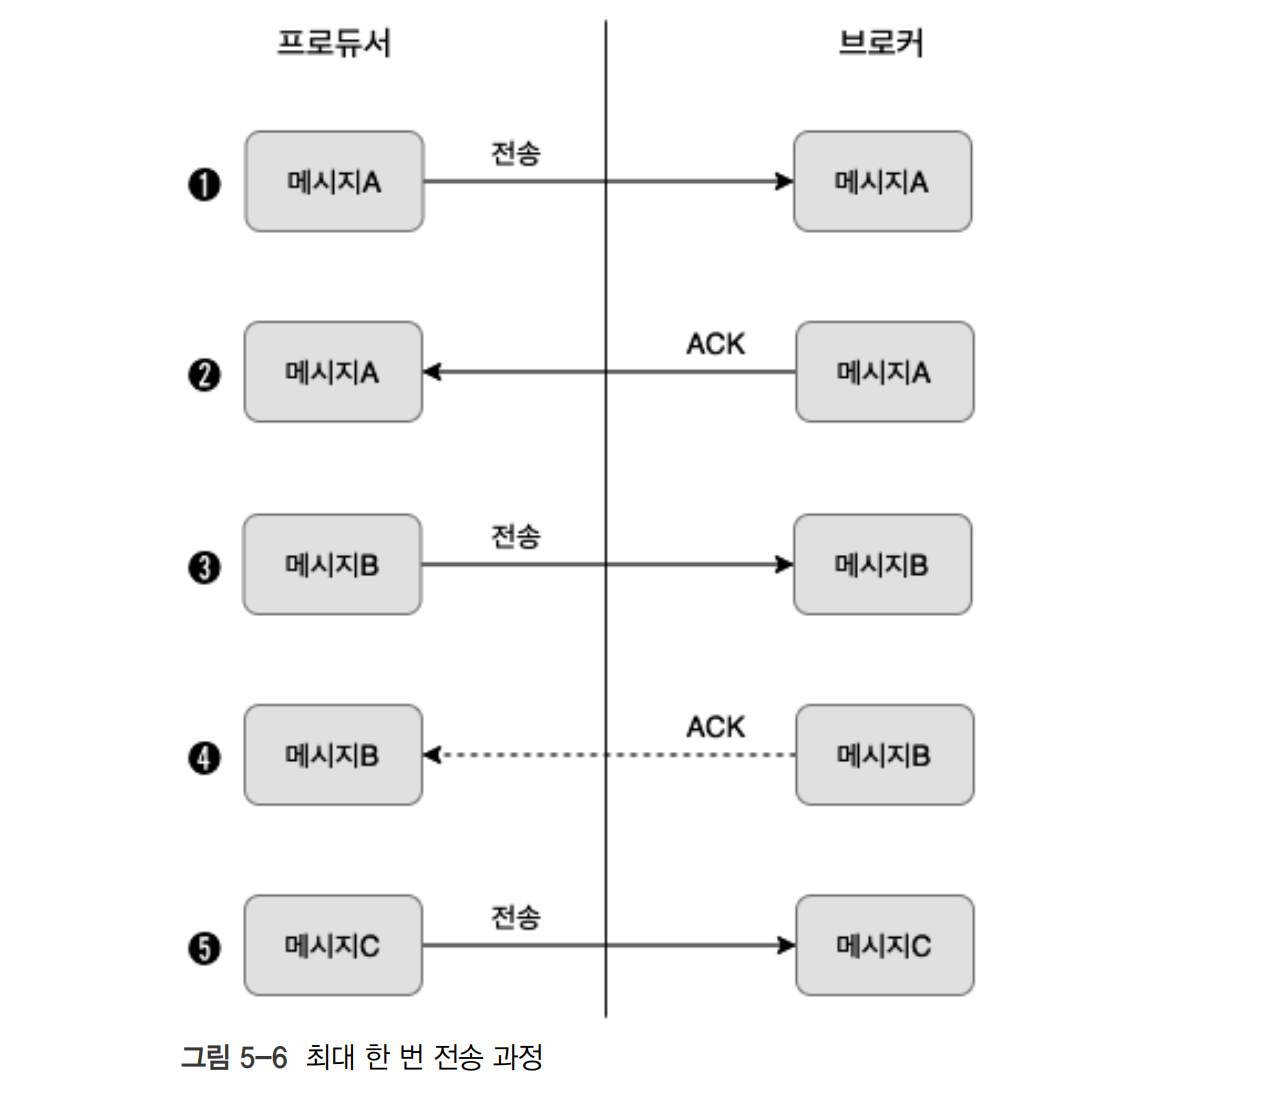
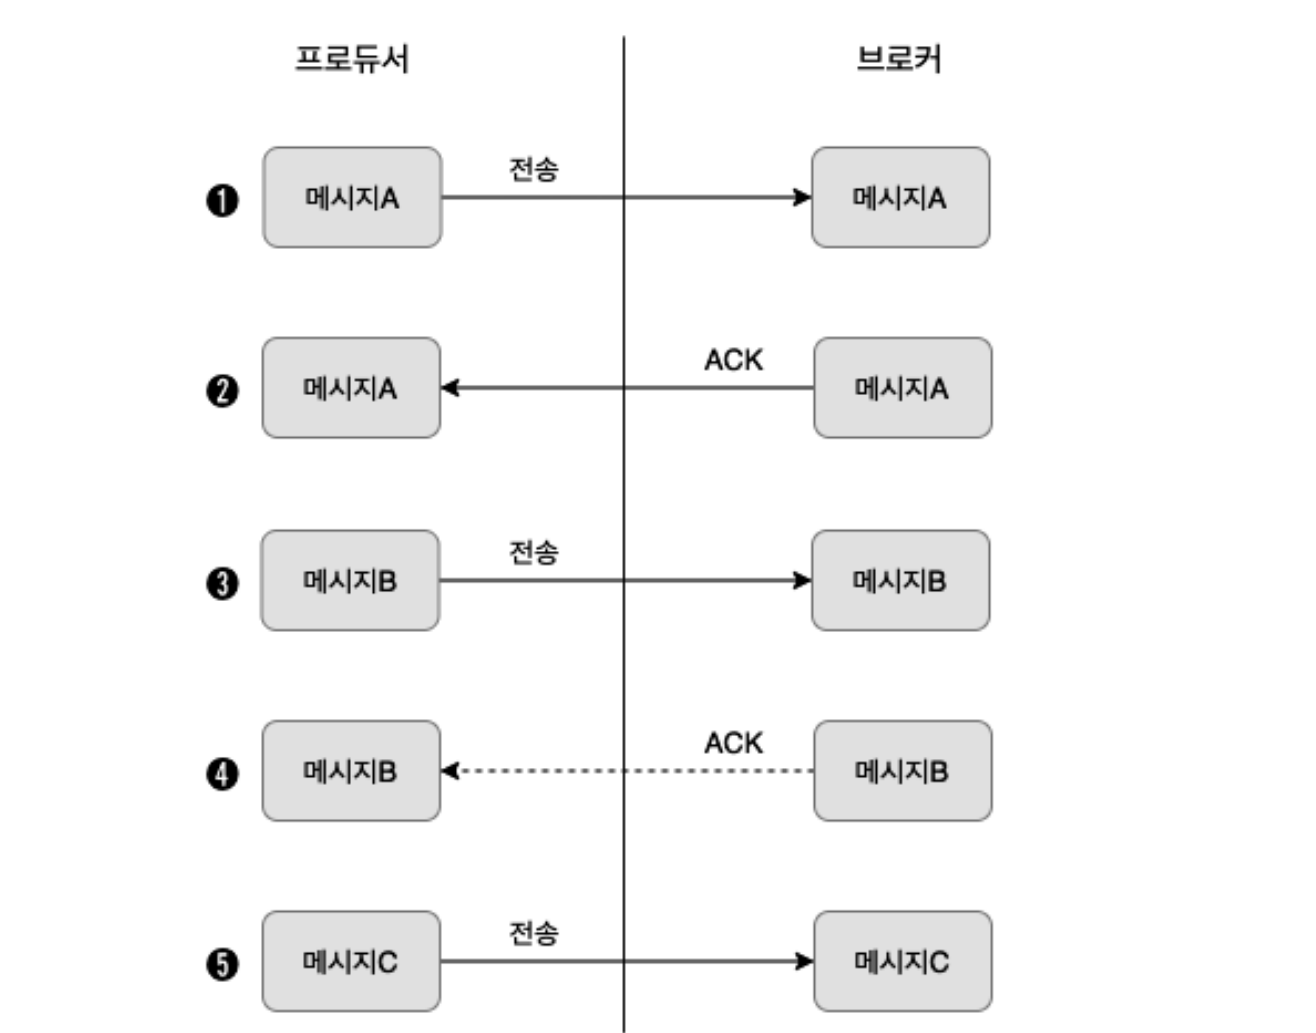
중복 없는 전송(멱등성 전송)

Changed region(s): [[0.1235, 0.0, 0.772, 1.0]]

diff --git a/hihisososo/chapter5/README.md b/hihisososo/chapter5/README.md
@@ -1,98 +1,52 @@
-## 4장(카프카의 내부 동작 원리와 구현)
+## 5장(프로듀서의 내부 동작 원리와 구현)
 
-* 리플리케이션 동작 개요
-  * 애플리케이션의 고가용성을 위해 리플리케이션(복제본 생성)은 필수적인 요소다
-  * replication factor (복제본 생성 수) 옵션을 통해서 각 토픽의 리플리케이션 갯수를 지정할 수 있다.
-  * kafka-topics.sh 의 --describe 옵션을 통해서 아래와 같이
-  파티션의 개수, 리플리케이션 팩터 수, 리플리케이션이 존재하는 브로커등의 상세 정보를 확인할 수 있다
+* 파티셔너
+  * 한개의 토픽은 성능을 위해 한개 이상의 파티션으로 분할되어 저장된다
+  * 메시지의 키 값을 기준으로 해싱되어 어느 파티션으로 보낼 지 결정되기 때문에
+  나중에 파티션을 추가하면 같은 키 값이라도 다른 파티션에 저장될 수 있다
+
+* 라운드 로빈 전략
+  * 메시지의 키 값은 필수가 아니므로, 키 값이 없을 경우 라운드 로빈 방식으로 파티션에 분할한다
+  * 라운드 로빈 방식의 문제점은, 프로듀서 내부적으로 카프카에 보낼 때 메시지를 파티션 단위로 배치 처리 하는데
+  파티션과 배치 사이즈가 클 경우 충분한 메시지에도 배치 사이즈를 채우지 못해서 전송을 못하는 경우가 생김
+  * 해당 부분을 보완하기 위해 스티키 파티셔닝 전략이 개발되었다
   
-    ![describe](./picture/peter-test01-describe.PNG)
-  * kafka-dump-log.sh --print-data-log --files ${세그먼트 파일} 을 통해 세그먼트의 시작 오프셋, 메시지 등의 상세 정보를
-  아래와 같이 확인할 수 있다.
+* 스티키 파티셔닝 전략
+  * 라운드 로빈의 단점을 보완하기 위해, 프로듀서에서 특정 파티션의 배치를 먼저 채워서 전송하는 방식
   
-    ![dump](./picture/peter-dump.PNG)
-  * N 개의 리플리케이션이 있을 경우, N-1 까지의 브로커 장애시에도 메시지 손실없이 안정적으로 메시지를 주고받을 수 있다
+  ![producer](./picture/producer.PNG)
+* 프로듀서 옵션들
+  * buffer.memory : 카프카로 메시지들을 전송하기 위해 담아두는 버퍼 메모리
+  * batch.size : 배치 전송을 위해 메시지들을 묶는 단위, 기본 16KB
+  * linger.ms : 배치 전송을 위해 버퍼 메모리에서 대기하는 시간, 기본 0ms
 
-* 리더와 팔로워
-  * 각 리플리케이션은 리더와 팔로워로 구분된다. 리더는 한개만 존재하며 프로듀서/컨슈머는 리더에만 데이터를 전송/읽는다
-  * 팔로워들은 리더에 문제가 생겼을 경우 리더가 될 준비를 하며, 지속적으로 리더의 변경사항을 반영한다
+* 프로듀서 메시지 전송 방식 종류
+  * 적어도 한 번 전송
+  * 최대 한 번 전송
+  * 정확히 한 번 전송
 
-* 복제 유지와 커밋
-  * 리더와 팔로워는 ISR(InSyncReplica) 라는 논리적 그룹으로 묶여 있으며 해당 그룹에 속하는 팔로워만이
-  리더가 될 자격을 부여한다
-  * 리더는 팔로워들이 특정 주기마다 메시지 요청을 하는지 감시하며, 요청이 오지 않는 팔로워는 ISR 그룹에서 제외시킨다
-  (ISR 목록은 토픽 상세보기를 통해 확인가능)
-  * 모든 팔로워가 메시지를 복제하면, 리더는 내부적으로 하이워터마크라는 커밋 오프셋을 저장하며, 하이워터마크된 메시지만
-  컨슈머에서 읽어갈 수 있다
-  * 모든 팔로워가 메시지를 복제하지 않은 상태에서 컨슈머에게 제공하면 아래와 같이 새로운 리더가 선출되었을 경우 데이터
-  싱크가 맞지 않는 현상이 발생하게 된다
-    ![new_leader_consumer](./picture/new_leader_consumer.PNG)
-  * 성능 향상을 위해, 리더는 팔로워가 데이터를 잘 저장했는지 여부를 통신 응답으로 확인(ACK) 하지 않으며
-  그대신 팔로워가 데이터 요청시 응답에 추가적으로 새로운 메시지가 있다고 알리게 된다
-  * /data/kafka-logs/replication-offset-checkpoint 파일에 마지막 오프셋 위치가 아래와 같이 각 브로커에서 저장되게 된다
-    > peter-test01 0 6
+* 적어도 한 번 전송
+  * 최소 한번 이상의 전송이 보장되는 방식이며 아래 그림과 같이 동작한다.
+  ![at_least_once](./picture/at_least_once.PNG)
+  * 흐름을 정리하면, 전송 후 ACK 를 받지 못하면 계속 재 전송하는 동작이다
+  * 브로커에서 메시지를 받았으나, 네트워크 등의 문제로 ACK 를 프로듀서에서 못 받고 재전송할 수 있기 때문에 최소 한번 이상 동작이다
+* 최대 한 번 전송
+  * 최대로 한 번 전송이 보장되는 방식이며 아래 그림과 같이 동작한다.
+  ![max_once](./picture/max_once.PNG)
+  * 흐름을 정리하면, ACK 응답을 받지 못하여도 계속해서 다음 메시지를 전송한다
+  * 해당 방식에서는 사실 ACK 가 필요하지 않으며, 데이터 유실을 감안하더라도 처리량이 중요한 대량의 로그
+  데이터 저장 시 사용한다
+* 중복 없는 전송(멱등성 전송)
+  * 프로듀서의 메시지를 중복 없이 전송이 보장되는 방식이다
+  * 멱등성이란? 
+    * 동일한 작업을 여러번 수행하더라도, 결과가 달라지지 않는 것을 의미
+    * 카프카에서는 프로듀서를 통해 동일한 메시지를 중복 전송하더라도 카프카에는 한번만 저장되는 것을 의미
+  * 아래 그림과 같이 동작한다
+  ![exactly_once](./picture/exactly_once.PNG)
+  * 흐름을 정리하면, 프로듀서는 메시지의 헤더에 PID(producer id) 와 메시지의 시퀀스를 전송하며
+  브로커는 받은 메시지의 PID 와 시퀀스를 메모리에 저장하고 있다. 미처 브로커에서 ACK 응답을 보내지 못했더라도
+  프로듀서에서 재전송하는 PID 와 시퀀스 값을 비교하여 이미 저장된 메시지면 저장하지 않고 ACK 응답만을 보낸다
+  * 해당 전송 방식에는 PID, 시퀀스를 확인하므로 오버헤드가 있다, 하지만 생각보다 높은 편은 아니다(-20%)
 
-* 리더와 팔로워의 단계별 리플리케이션 동작
-  * 다른 메시지징 큐 시스템과는 다르게, 카프카는 데이터 처리 성능 향상을 위해 팔로워들이 데이터를 잘 저장했는지 확인하는 ACK 통신을 
-  하지 않는다
-  * 그렇다면 어떻게 안정적으로 데이터를 저장(리플리케이션) 했는지 알 수 있을까?
-  * 팔로워들은 리더에게 기본적으로 계속해서 현재 저장된 오프셋 이후의 데이터를 요청한다
-  * 리더는 모든 팔로워들에게 특정 오프셋 이후의 데이터 요청이 오면, 오프셋 이전의 데이터는 복제된것으로 간주하고 커밋(하이 워터마크) 처리한다
-  * 수행 과정을 정리하면 아래와 같다
-    ![replication_process](./picture/replication_process.PNG)
 
-* 리더에포크와 복구
-  * 파티션들의 복구 동작 시 메시지 일관성을 위해서 리더에포크라는 것이 존재한다
-  * 하이워터마크가 있음에도 리더에포크가 존재하는 이유는 무엇인가? 브로커 장애 복구 특정 상황에서 메시지가 유실될 수 있기 때문, 아래는 리더에포크를 
-  사용하지 않았을 때의 유실 시나리오이다
-  * 아래 그림과 같은 상태에서 팔로워에서 오프셋2를 요청 -> 리더의 하이워터마크 증가 -> 팔로워에서 하이워터마크 증가 미반영 상태일 경우
-    ![leader_epoch_1](./picture/leader_epoch_1.PNG)
-  * 해당 상태에서 팔로워가 장애 발생, 장애복구 시 자신의 하이워터마크 이상의 메시지는 삭제한다
-    ![leader_epoch_2](./picture/leader_epoch_2.PNG)
-  * 팔로워는 리더에게 오프셋 1에대한 메시지 요청을 보낼 때 리더가 장애가 발생하여 팔로워가 리더로 승격한다, message2 는 유실된다
-    ![leader_epoch_3](./picture/leader_epoch_3.PNG)
-  * 그렇다면 리더에포크를 사용하면 어떻게 될까? 위의 팔로워 장애복구 그림에서 다시 시작하면, 팔로워의 장애가 복구되었을 경우 자신의 하이워터마크보다
-  높은 메시지를 삭제하는 것이 아니라 리더에게 리더에포크 요청을 보낸다.
-    ![leader_epoch_4](./picture/leader_epoch_4.PNG)
-  * 리더에포크 응답에 따라, 팔로워는 1번오프셋까지 하이워터마크를 신뢰할 수 있다고 판단, 자신의 하이워터마크를 오프셋1로 올린다
-    ![leader_epoch_5](./picture/leader_epoch_5.PNG)
-  * 리더에포크를 통해서 위와같이 메시지의 삭제 없이 정상적으로 복구할 수 있다
-  * 리더에포크는 각 브로커별로 /data/kafka-logs/{토픽명}-{파티션번호}/leader-epoch-checkpoint 파일에 저장되며 리더가 바뀔 때마다 갱신된다
-  * 리더 에포크 파일의 샘플은 아래와 같으며, 각 리더에포크마다 오프셋의 최종 커밋 후 오프셋 번호가 기록되어 있다
-  > 0<br>2 (현재 리더에포크 번호)<br>0 0 (리더에포크 번호, 오프셋 번호)<br>1 1 (리더에포크 번호, 오프셋 번호)
-  * 해당 파일을 통해, 리더에포크가 1인 시점에서 장애가 발생하고 복구된 브로커는 오프셋 0번까지는 데이터를 보존하고, 오프셋 1번부터 리더에 요청하여 메시지를 받게 된다
-  * 리더 에포크 파일의 정합성은 누가 보장해주는지?
-
-* 컨트롤러
-  * 파티션의 ISR 리스트에서 리더를 선출하는 부분을 담당. 새로운 리더의 정보를 주키퍼에 기록 및 모든 브로커에게 전달한다
-  * 리더가 없는 상태에서는 제대로 된 동작이 불가하므로 빠른 리더의 선출이 중요한 부분이다
-  * 예기치 못한 브로커 장애 시, 파티션의 리더가 선출되는 과정은 아래 그림과 같다
-    ![controller_1](./picture/controller_1.PNG)
-  * 브로커 정상 종료 시, 리더가 선출되는 과정은 아래 그림과 같다
-    ![controller_2](./picture/controller_2.PNG)
-  * 정상 종료 <-> 장애 종료의 차이는 종료 전, 컨트롤러에서 리더 선출을 먼저 하기 때문에 다운타임을 최소화 할 수 있다
-  * 브로커에 제어된 종료를 사용하려면, /usr/local/kafka/config/server.properties 에 controlled.shutdown.enable=true 옵션이 적용되어야 한다
-  * /usr/local/kafka/bin/kafka-configs.sh --bootstrap-server peter-kafka01.foo.bar:9092 --broker 1 --describe --all | grep controlled.shutdown.enable 명령어를 통해 아래와 같이 확인할 수도 있다
   
-    ![shutdown_option](./picture/shutdown_option.PNG)
-
-* 로그(로그 세그먼트)
-  * 카프카의 토픽으로 들어오는 메시지는 메시지의 메타 정보를 포함해 세그먼트라는 파일에 저장되며 파일의 최대 크기는 1GB 이며 롤링 전략을 취하고 있다
-  * 롤링 되더라도, 하드디스크의 용량은 무한하지 않기 때문에 로그 세그먼트에 대한 관리 전략이 필요하다
-  * 관리 전략은 세그먼트삭제, 컴팩션으로 구분할 수 있다
-
-* 로그 세그먼트 삭제
-  * /usr/local/kafka/config/server.properties 설정파일에 log.cleanup.policy=delete 로 설정되어야 하며, 기본값으로 적용된다
-  * peter-test03 토픽 생성 후, 프로듀서를 통해 log1 메시지를 전송 -> 컨슈머로 가져옴 -> retention.ms 옵션을 0으로 조정하여 5분(삭제주기)뒤 로그 파일의 변화를 확인하면 아래와 같다
-  * 삭제 전
-  
-    ![segment_1](./picture/segment_1.PNG)
-  * 삭제 후(기존 로그 파일이 없어짐)
-  
-    ![segment_2](./picture/segment_2.PNG)
-  
-* 로그 세그먼트 컴팩션
-  * 컴팩션은 로그를 키의 마지막 값만 남겨서 저장하는 방식이다. 이 방식은 프로듀서에서 보낸 메시지의 키를 기준으로 삼기 때문에 프로듀서에서 무조건 키 값을 세팅해야 한다
-  * 동작 방식은 아래 그림과 같으며, 데이터의 마지막 값만 남기므로 복구 시 빠른 처리속도를 가질 수 있으나 중간의 값이 필요한 상황에서는 사용하지 않아야 한다
-  
-    ![log_compaction](./picture/log_compaction.PNG)
